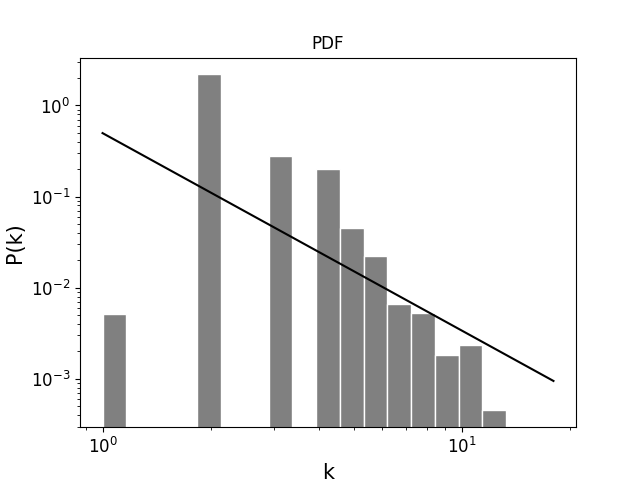
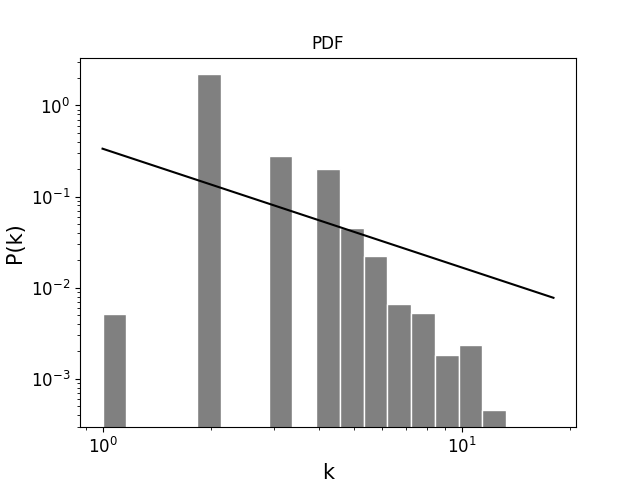
Fix power-law fit and refactor code

diff --git a/Project/small_world.py b/Project/small_world.py
@@ -37,12 +37,12 @@ def subset_lines(connections, n_lines):
     return subset
 
 
-def mean_path_subnets(net, connections, n_subnets, n_reps, min_lines=10, max_lines=100):
-    mean_mean_path = []
+def generate_subnets(net, connections, n_subnets, n_reps, min_lines=10, max_lines=100):
+    mean_diameter = []
     mean_N = []
     for j in range(n_reps):
         print(f"Subset of sub-nets #{j}")
-        mean_path = []
+        diameter = []
         N = []
         step = (max_lines - min_lines) // n_subnets
         n_lines = min_lines
@@ -58,110 +58,59 @@ def mean_path_subnets(net, connections, n_subnets, n_reps, min_lines=10, max_lin
                 if seed or nx.number_weakly_connected_components(sub_net) == 1:
                     break
             # print("Computing mean path...")
-            mean_path.append(nx.average_shortest_path_length(sub_net))
+            diameter.append(nx.diameter(sub_net.to_undirected()))
             N.append(sub_net.number_of_nodes())
             n_lines += step
-        mean_mean_path.append(mean_path)
+        mean_diameter.append(diameter)
         mean_N.append(N)
-    print("Done with subnets.")
-    mean_mean_path = np.mean(mean_mean_path, axis=0)
+    # print("Done with subnets.")
+    mean_diameter = np.mean(mean_diameter, axis=0)
     mean_N = np.mean(mean_N, axis=0)
-    print("Computing mean path of the whole network...")
-    np.append(mean_mean_path, nx.average_shortest_path_length(net))
+    # print("Computing mean path of the whole network...")
+    np.append(mean_diameter, nx.average_shortest_path_length(net))
     np.append(mean_N, net.number_of_nodes())
-    return mean_N, mean_mean_path
+    return mean_N, mean_diameter
 
 
-def plot_mean_path_N(net, connections, out_folder="", load=False, n_reps=100):
-    if load:
-        f = open(os.path.join(out_folder, 'mean_path_N.pkl'), 'rb')
-        mean_path_N = pickle.load(f)
-        N, mean_path = list(mean_path_N.keys()), list(mean_path_N.values())
+def plot_diameter_N(net, connections, out_folder="", load=False, n_reps=100):
+    if load and os.path.exists(os.path.join(out_folder, "diameter_N.pkl")):
+        f = open(os.path.join(out_folder, "diameter_N.pkl"), "rb")
+        diameter_N = pickle.load(f)
+        N, diameter = list(diameter_N.keys()), list(diameter_N.values())
     else:
         if seed:
             n_reps = 1
-        N, mean_path = mean_path_subnets(net, connections, 20, min_lines=20, n_reps=n_reps)
-        f = open(os.path.join(out_folder, 'mean_path_N.pkl'), 'wb')
-        pickle.dump(dict(zip(N, mean_path)), f)
+        N, diameter = generate_subnets(net, connections, 20, min_lines=20, n_reps=n_reps)
+        f = open(os.path.join(out_folder, "diameter_N.pkl"), "wb")
+        pickle.dump(dict(zip(N, diameter)), f)
         f.close()
-
-    fit = np.polyfit(np.log10(N), mean_path, 1)
+    fit = np.polyfit(np.log10(N), diameter, 1)
     fig = plt.figure()
-    plt.plot(N, mean_path, 'ko-')
+    plt.plot(N, diameter, "ko-")
     plt.plot(N, fit[0] * np.log10(N) + fit[1], "k-")
-    plt.xscale(u'log')
+    plt.xscale("log")
     plt.xlabel(r"$N$", fontsize=15)
     plt.ylabel(r"$D(N)$", fontsize=15)
-    #plt.xticks(fontsize=12)
+    plt.xticks(fontsize=12)
     plt.yticks(fontsize=12)
-    # plt.title(f'{seed}')
-    plt.savefig(os.path.join(out_folder, 'mean_path_N.png'))
+    plt.savefig(os.path.join(out_folder, "diameter_N.png"))
     plt.show()
 
 
-def plot_hists(net, bins=20, out_folder=""):
-    node_degrees = [k[-1] for k in nx.degree(net)]
-
-    fig = plt.figure()
-    plt.hist(node_degrees, bins=bins,
-             density=True, color='grey', edgecolor='white')
-    plt.xlabel("k", fontsize=15)
-    plt.ylabel("P(k)", fontsize=15)
-    plt.xticks(fontsize=12)
-    plt.yticks(fontsize=12)
-    plt.savefig(os.path.join(out_folder, "PDF.png"))
-
-    fig = plt.figure()
-    plt.hist(node_degrees, bins=bins, cumulative=-1,
-             density=True, color='grey', edgecolor='white')
-    plt.xlabel("k", fontsize=15)
-    plt.ylabel("P(k)", fontsize=15)
-    plt.xticks(fontsize=12)
-    plt.yticks(fontsize=12)
-    plt.savefig(os.path.join(out_folder, "CCDF.png"))
-
-    fig = plt.figure()
-    log_k = np.linspace(np.log10(min(node_degrees)), np.log10(max(node_degrees)), bins)
-    n, bins, patches = plt.hist(node_degrees, 10 ** log_k,
-                                log=True, density=True, label='empirical', color='grey', edgecolor='white')
-    fit = np.polyfit((log_k[1:] + log_k[:-1]) / 2, n, 1)
-    #plt.plot(10 ** log_k, (10**fit[1]) * ( (10 ** log_k) ** fit[0] ), 'k-')
-    fit = 10 ** fit
-    plt.plot(10**log_k, fit[0]*(10**log_k)**(-fit[1]), 'k-')
-    plt.xscale(u'log')
-    plt.title("PDF")
-    plt.xlabel("k", fontsize=15)
-    plt.ylabel("P(k)", fontsize=15)
-    plt.xticks(fontsize=12)
-    plt.yticks(fontsize=12)
-    plt.savefig(os.path.join(out_folder, "PDF_log.png"))
-
-    fig = plt.figure()
-    plt.hist(node_degrees, 10 ** log_k, cumulative=-1,
-             log=True, density=True, label='empirical', color='grey', edgecolor='white')
-    plt.gca().set_xscale("log")
-    plt.title("CCDF")
-    plt.xlabel("k", fontsize=15)
-    plt.ylabel("P(k)", fontsize=15)
-    plt.xticks(fontsize=12)
-    plt.yticks(fontsize=12)
-    plt.savefig(os.path.join(out_folder, "CCDF_log.png"))
-
-
-def shortest_routes(net, lines, out_folder=""):
+def shortest_routes(net, lines):
     # Obtain the shortest path using Dijkstra's algorithm
     # paths = dict(nx.all_pairs_dijkstra_path(G, weight='weight'))
     transhipment_dict = {}
     path_length_dict = {}
-    i=0
+    # i = 0
     for source in net.nodes:
-        i+=1
-        print(f'Node {i}/{len(net.nodes)}')
+        # i += 1
+        # print(f"Node {i}/{len(net.nodes)}")
         for target in net.nodes:
             if target == source:
                 continue
             try:
-                for path in nx.all_shortest_paths(net, source, target, None, 'dijkstra'):
+                for path in nx.all_shortest_paths(net, source, target, None, "dijkstra"):
                     previous_lines = lines[(path[0], path[1], 0)]
                     current_stop = path[1]
                     transhipments_count = 0
@@ -173,28 +122,40 @@ def shortest_routes(net, lines, out_folder=""):
                         current_stop = next_stop
                     transhipment_dict[(source, target)] = transhipment_dict.get((source, target), [])
                     (transhipment_dict[(source, target)]).append(transhipments_count)
-                    #print(f'Shortest path: {len(path)}')
-                    #print(f'Number of transhipments: {transhipments_count}')
+                    # print(f"Shortest path: {len(path)}")
+                    # print(f"Number of transhipments: {transhipments_count}")
                 try:
                     path_length_dict[(source, target)] = len(path)
                 except NameError:
                     path_length_dict[(source, target)] = np.inf
-                #print(transhipment_dict[(source, target)])
+                # print(transhipment_dict[(source, target)])
             except NetworkXNoPath as e:
                 print(e)
-    f = open(os.path.join(out_folder, 'transhipment_dict.pkl'), 'wb')
-    pickle.dump(transhipment_dict, f)
-    f.close()
-    f = open(os.path.join(out_folder, 'path_length_dict.pkl'), 'wb')
-    pickle.dump(path_length_dict, f)
-    f.close()
-    #pprint(transhipment_dict)
+    # pprint(transhipment_dict)
+    return transhipment_dict, path_length_dict
 
 
-def plot_shortest_routes(transhipment_dict, path_length_dict, out_folder=""):
+def plot_shortest_routes(net, lines, out_folder="", load=False):
+    if load \
+            and os.path.exists(os.path.join(out_folder, "transhipment_dict.pkl")) \
+            and os.path.exists(os.path.join(out_folder, "path_length_dict.pkl")):
+        f = open(os.path.join(out_folder, "transhipment_dict.pkl"), "rb")
+        transhipment_dict = pickle.load(f)
+        f.close()
+        f = open(os.path.join(out_folder, "path_length_dict.pkl"), "rb")
+        path_length_dict = pickle.load(f)
+        f.close()
+    else:
+        transhipment_dict, path_length_dict = shortest_routes(net, lines)
+        f = open(os.path.join(out_folder, "transhipment_dict.pkl"), "wb")
+        pickle.dump(transhipment_dict, f)
+        f.close()
+        f = open(os.path.join(out_folder, "path_length_dict.pkl"), "wb")
+        pickle.dump(path_length_dict, f)
+        f.close()
     fig = plt.figure()
     unique_lengths, counts_lengths = np.unique(list(path_length_dict.values()), return_counts=True)
-    plt.plot(unique_lengths, counts_lengths/sum(counts_lengths), "ko-", ms=5)
+    plt.plot(unique_lengths, counts_lengths / sum(counts_lengths), "ko-", ms=5)
     plt.xlabel(r"$L$", fontsize=15)
     plt.ylabel(r"$P(L)$", fontsize=15)
     plt.xticks(fontsize=12)
@@ -205,8 +166,8 @@ def plot_shortest_routes(transhipment_dict, path_length_dict, out_folder=""):
     fig = plt.figure()
     trans_dict_simple = {k: min(transhipment_dict[k]) for k in transhipment_dict.keys()}
     unique_trans, counts_trans = np.unique(list(trans_dict_simple.values()), return_counts=True)
-    plt.plot(unique_trans, counts_trans/sum(counts_trans), "ko-", ms=5)
-    plt.xlabel(r'$n_t$', fontsize=15)
+    plt.plot(unique_trans, counts_trans / sum(counts_trans), "ko-", ms=5)
+    plt.xlabel(r"$n_t$", fontsize=15)
     plt.ylabel(r"$P(n_t)$", fontsize=15)
     plt.xticks(fontsize=12)
     plt.yticks(fontsize=12)
@@ -214,36 +175,88 @@ def plot_shortest_routes(transhipment_dict, path_length_dict, out_folder=""):
     plt.show()
 
 
+def plot_hists(net, bins=20, out_folder=""):
+    node_degrees = [k[-1] for k in nx.degree(net)]
+
+    fig = plt.figure()
+    plt.hist(node_degrees,
+             bins=bins,
+             density=True,
+             color="grey",
+             edgecolor="white")
+    plt.xlabel("k", fontsize=15)
+    plt.ylabel("P(k)", fontsize=15)
+    plt.xticks(fontsize=12)
+    plt.yticks(fontsize=12)
+    plt.title("CCDF")
+    plt.savefig(os.path.join(out_folder, "PDF.png"))
+    plt.show()
+
+    fig = plt.figure()
+    plt.hist(node_degrees,
+             bins=bins,
+             cumulative=-1,
+             density=True,
+             color="grey",
+             edgecolor="white")
+    plt.xlabel("k", fontsize=15)
+    plt.ylabel("P(k)", fontsize=15)
+    plt.xticks(fontsize=12)
+    plt.yticks(fontsize=12)
+    plt.title("CCDF")
+    plt.savefig(os.path.join(out_folder, "CCDF.png"))
+    plt.show()
+
+    fig = plt.figure()
+    log_k = np.linspace(np.log10(min(node_degrees)), np.log10(max(node_degrees)), bins)
+    n, _, _ = plt.hist(node_degrees,
+                       10 ** log_k,
+                       log=True,
+                       density=True,
+                       label="empirical",
+                       color="grey",
+                       edgecolor="white")
+    fit = np.polyfit((log_k[1:] + log_k[:-1]) / 2, n, 1)
+    alpha, C = 1 - fit[0], fit[1]
+    plt.plot(10 ** log_k, C * (10 ** log_k) ** (-alpha), "k-")
+    plt.xscale("log")
+    plt.title("PDF")
+    plt.xlabel("k", fontsize=15)
+    plt.ylabel("P(k)", fontsize=15)
+    plt.xticks(fontsize=12)
+    plt.yticks(fontsize=12)
+    plt.savefig(os.path.join(out_folder, "PDF_log.png"))
+    plt.show()
+
+    fig = plt.figure()
+    n, _, _ = plt.hist(node_degrees,
+                       10 ** log_k,
+                       cumulative=-1,
+                       log=True,
+                       density=True,
+                       label="empirical",
+                       color="grey",
+                       edgecolor="white")
+    fit = np.polyfit((log_k[1:] + log_k[:-1]) / 2, n, 1)
+    alpha, C = 1 - fit[0], fit[1]
+    plt.plot(10 ** log_k, C * (10 ** log_k) ** (-alpha), "k-")
+    plt.gca().set_xscale("log")
+    plt.title("CCDF")
+    plt.xlabel("k", fontsize=15)
+    plt.ylabel("P(k)", fontsize=15)
+    plt.xticks(fontsize=12)
+    plt.yticks(fontsize=12)
+    plt.savefig(os.path.join(out_folder, "CCDF_log.png"))
+    plt.show()
+
+
 def small_word_stats(net, out_folder=""):
     net = nx.Graph(net.to_undirected())
     rand_net = nx.random_reference(net, connectivity=True)
     df = pd.DataFrame(index=[0], columns=["L_actual", "L_random", "C_actual", "C_random", "sigma"], dtype=float)
-    df['L_actual'] = nx.average_shortest_path_length(net)
-    df['L_random'] = nx.average_shortest_path_length(rand_net)
-    df['C_actual'] = nx.average_clustering(net)
-    df['C_random'] = nx.average_clustering(rand_net)
-    df['sigma'] = (df['C_actual']/df['C_random']) / (df['L_actual']/df['L_random'])
-    df.to_csv(os.path.join(out_folder, 'small_world_stats'))
-
-# nx.draw(sub_net,
-#     nodelist=list(nx.weakly_connected_components(sub_net))[0],
-#     node_size=8,
-#     width=1,
-#     pos=nx.kamada_kawai_layout(sub_net)
-# )
-# plt.show()
-
-
-# color_map = []
-# for node in sub_net:
-#     if node in S[0].nodes():
-#         color_map.append('blue')
-#     else:
-#         color_map.append('green')
-#
-# nx.draw(sub_net, node_size=5, pos=nx.kamada_kawai_layout(sub_net), nodelist=S[1].nodes())
-# plt.show()
-
-# z = []
-# for u, v, e in S[1].edges(data=True):
-#     z = z + [e['lines']]
+    df["L_actual"] = nx.average_shortest_path_length(net)
+    df["L_random"] = nx.average_shortest_path_length(rand_net)
+    df["C_actual"] = nx.average_clustering(net)
+    df["C_random"] = nx.average_clustering(rand_net)
+    df["sigma"] = (df["C_actual"] / df["C_random"]) / (df["L_actual"] / df["L_random"])
+    df.to_csv(os.path.join(out_folder, "small_world_stats"))

diff --git a/Project/small_world_main.py b/Project/small_world_main.py
@@ -8,9 +8,10 @@ import matplotlib.pyplot as plt
 import numpy as np
 
 from itertools import chain
-
+print(os.path.dirname(__file__))
 data_folder = 'data'
 out_folder = 'output'
+absolute_out_folder = os.path.join(os.path.dirname(__file__), out_folder)
 G = nx.read_pajek(os.path.join(os.path.dirname(__file__), data_folder, 'bus-bcn.net'))
 
 # Read list of lines for each edge
@@ -31,9 +32,8 @@ f.close()
 f = open(os.path.join(os.path.dirname(__file__), out_folder, 'path_length_dict.pkl'), 'rb')
 path_length_dict = pickle.load(f)
 f.close()
-sw.plot_mean_path_N(G, connections, out_folder=os.path.join(os.path.dirname(__file__), out_folder), load=True)
-sw.plot_hists(G, out_folder=os.path.join(os.path.dirname(__file__), out_folder))
-# Executing the line below takes a very long time
-#sw.shortest_routes(G, lines, os.path.join(os.path.dirname(__file__), out_folder))
-sw.plot_shortest_routes(transhipment_dict, path_length_dict, os.path.join(os.path.dirname(__file__), out_folder))
-sw.small_word_stats(G, os.path.join(os.path.dirname(__file__), out_folder))
+sw.plot_diameter_N(G, connections, out_folder=absolute_out_folder, load=True)
+sw.plot_shortest_routes(transhipment_dict, path_length_dict, out_folder=absolute_out_folder, load=True)
+sw.plot_hists(G, out_folder=absolute_out_folder)
+sw.small_word_stats(G, out_folder=absolute_out_folder)
+
